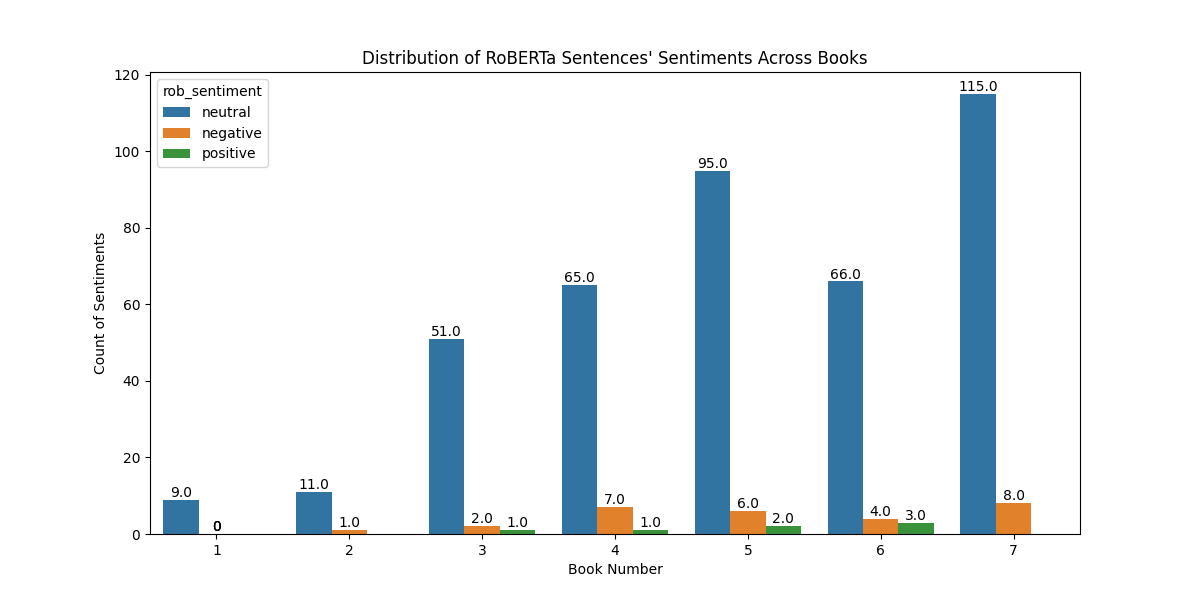
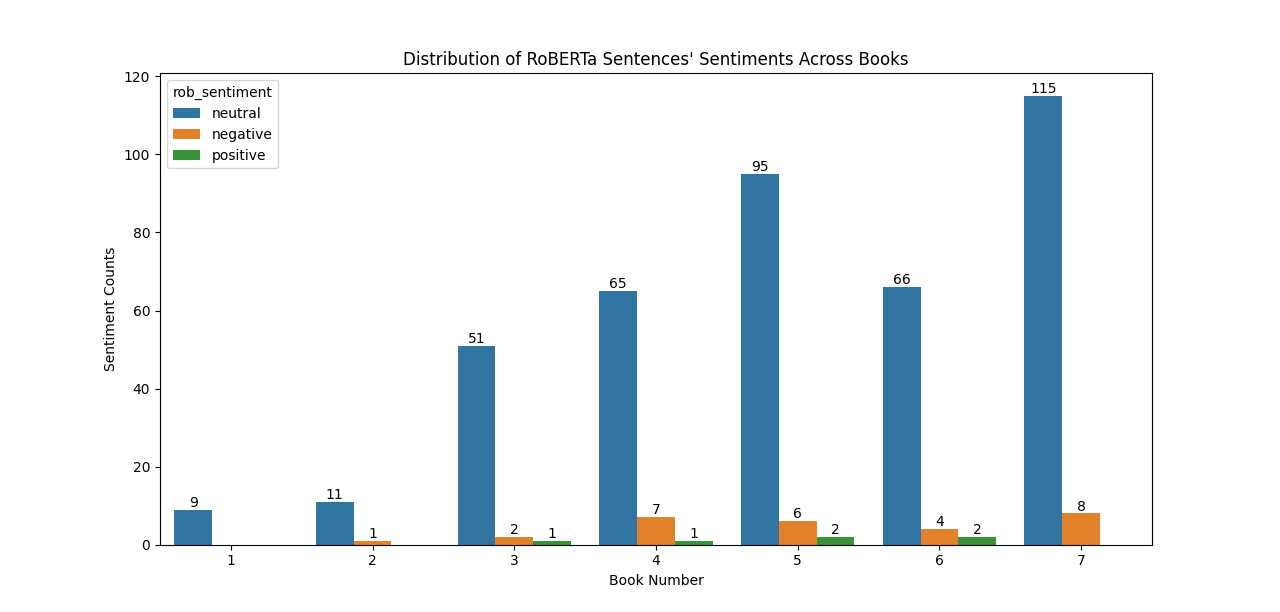
Rounded numbers in plots

diff --git a/plots.py b/plots.py
@@ -28,15 +28,16 @@ def sentiment_across_books(df, model_col_name, text_col):
     ax = sns.countplot(data=df, x='book_num_adj', hue=model_col_name)
     # adding annotations on top of each bar
     for p in ax.patches:
-        height = p.get_height()
-        ax.annotate(f'{height}', (p.get_x() + p.get_width() / 2., height),
-                    ha='center', va='center', xytext=(0, 5),
-                    textcoords='offset points')
+        height = int(p.get_height())
+        if height > 0:
+            ax.annotate(f'{height}', (p.get_x() + p.get_width() / 2., height),
+                        ha='center', va='center', xytext=(0, 5),
+                        textcoords='offset points')
     # setting the title and labels
     plt.title(f'Distribution of {MODELS_DICT[model_col_name]} {text_col}s\' '
               f'Sentiments Across Books')
     plt.xlabel('Book Number')
-    plt.ylabel('Count of Sentiments')
+    plt.ylabel('Sentiment Counts')
     plt.show()
 
 
